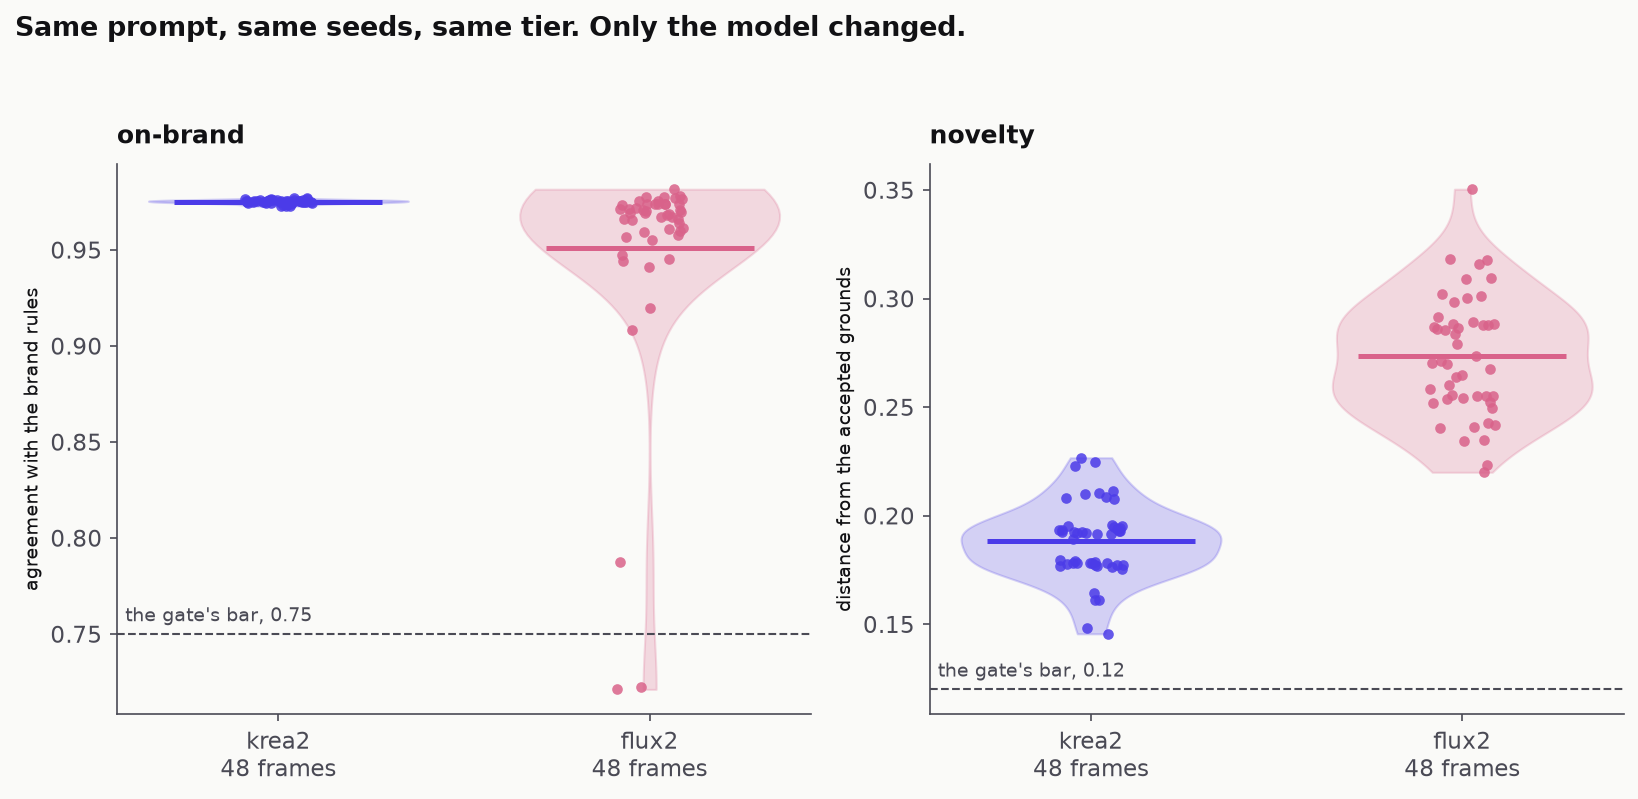
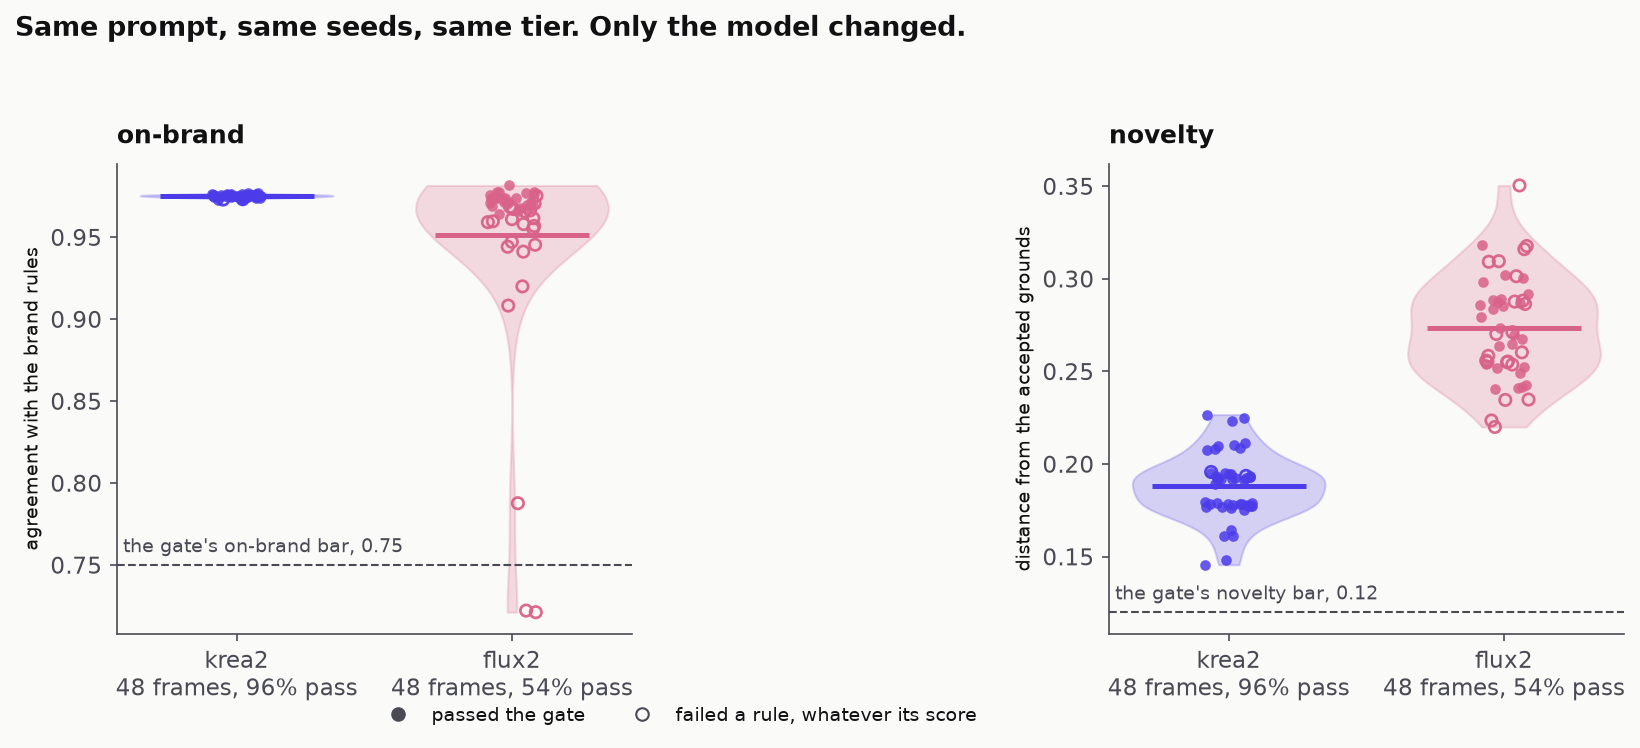
The drift plot and scorecard in the README, and a figure that stops disagreeing with them
The first render of plot.png showed only the score and the bar, so flux2's
cloud sat high and read as an arm that passes nearly everything. It is not: a
frame fails when ANY rule fails, and 21 of flux2's 48 refusals scored 0.94 to
0.97, well above the 0.75 bar. The panel now draws a refusal as a hollow ring,
puts the pass rate in the axis label and says in a legend that a frame can
clear the bar and still be refused. Same data, opposite impression.

That is the README's paragraph too: the mean fell 0.024 and the spread grew 56
times, so the number a dashboard would report stayed healthy while half the
output stopped shipping.

Closes the last acceptance line on #9.

diff --git a/runs/drift.py b/runs/drift.py
@@ -226,6 +226,11 @@ def _n(v, fmt="{:.4f}", dash="n/a"):
     return dash if v is None else fmt.format(v)
 
 
+def _pass_rate(rows: list[dict], model: str) -> float:
+    mine = [r for r in rows if r["model"] == model]
+    return sum(1 for r in mine if r["verdict"] == "pass") / len(mine) if mine else 0.0
+
+
 def shared_seeds(rows: list[dict]) -> bool:
     """Did every arm draw the same seeds? The run's one real precondition."""
     by = collections.defaultdict(set)
@@ -367,23 +372,34 @@ def figure(rows: list[dict], cfg: dict, out_path: str | None = None,
                 body.set_facecolor(col)
                 body.set_edgecolor(col)
                 body.set_alpha(0.22)
-        for i, (d, col) in enumerate(zip(data, colours)):
-            ax.scatter(i + rng.uniform(-0.09, 0.09, len(d)), d, s=26, color=col,
+        # Filled for a frame that passed, hollow for one that failed. Without
+        # this the panel quietly disagrees with the scorecard: a frame fails
+        # when ANY rule fails, so 21 of flux2's 48 failures sit at 0.94 to
+        # 0.97, well above the bar. A reader seeing only the cloud and the
+        # dashed line would conclude that arm passed nearly everything.
+        for i, (m, col) in enumerate(zip(models, colours)):
+            mine = [r for r in rows if r["model"] == m and r[key] is not None]
+            ok = [r[key] for r in mine if r["verdict"] == "pass"]
+            bad = [r[key] for r in mine if r["verdict"] != "pass"]
+            ax.scatter(i + rng.uniform(-0.09, 0.09, len(ok)), ok, s=26, color=col,
                        alpha=0.85, linewidths=0, zorder=3)
-            if d:
-                ax.hlines(statistics.mean(d), i - 0.28, i + 0.28, color=col, lw=2.4,
-                          zorder=4)
+            ax.scatter(i + rng.uniform(-0.09, 0.09, len(bad)), bad, s=30,
+                       facecolors="none", edgecolors=col, linewidths=1.3,
+                       alpha=0.95, zorder=3)
+            if data[i]:
+                ax.hlines(statistics.mean(data[i]), i - 0.28, i + 0.28, color=col,
+                          lw=2.4, zorder=4)
         ax.axhline(bar, color=c["graphite"], lw=1, ls="--")
         # Anchored in axes fraction, not in data: at the right-hand end the
         # label lands past the last violin and matplotlib clips it away
         # without a word, which leaves a bare dashed line meaning nothing.
-        ax.annotate(f"the gate's bar, {bar}", xy=(0.012, bar),
+        ax.annotate(f"the gate's {title} bar, {bar}", xy=(0.012, bar),
                     xycoords=("axes fraction", "data"), xytext=(0, 4),
                     textcoords="offset points", ha="left", va="bottom",
                     fontsize=9, color=c["graphite"])
         ax.set_xticks(range(len(models)))
-        ax.set_xticklabels([f"{m}\n{sum(1 for r in rows if r['model'] == m)} frames"
-                            for m in models])
+        ax.set_xticklabels([f"{m}\n{sum(1 for r in rows if r['model'] == m)} frames, "
+                            f"{_pass_rate(rows, m):.0%} pass" for m in models])
         ax.set_title(title, loc="left", fontsize=12, fontweight="bold", pad=10)
         ax.set_ylabel(ylabel, fontsize=9)
         ax.spines["top"].set_visible(False)
@@ -397,7 +413,19 @@ def figure(rows: list[dict], cfg: dict, out_path: str | None = None,
                  "Same prompt and tier, DIFFERENT seeds per arm: not a controlled "
                  "comparison.",
                  x=0.01, ha="left", fontsize=13, fontweight="bold")
-    fig.tight_layout(rect=(0, 0, 1, 0.94))
+    # Said once, under both panels, because "hollow" means nothing unless the
+    # figure explains that a frame can clear the bar and still be refused.
+    from matplotlib.lines import Line2D
+    ink = c["graphite"]
+    axes[0].legend(
+        handles=[Line2D([], [], marker="o", ls="", markerfacecolor=ink,
+                        markeredgecolor=ink, markersize=6, label="passed the gate"),
+                 Line2D([], [], marker="o", ls="", markerfacecolor="none",
+                        markeredgecolor=ink, markersize=6,
+                        label="failed a rule, whatever its score")],
+        loc="upper center", bbox_to_anchor=(1.09, -0.12), ncol=2, frameon=False,
+        fontsize=9, labelcolor=c["ink"])
+    fig.tight_layout(rect=(0, 0.04, 1, 0.94))
     if caption:
         fig.text(0.01, -0.02, caption, ha="left", va="top", fontsize=9,
                  color=c["graphite"], wrap=True)

diff --git a/pipeline/tests/test_drift.py b/pipeline/tests/test_drift.py
@@ -150,3 +150,16 @@ def test_novelty_is_measured_against_the_accepted_grounds_not_the_arms_own_frame
     found = drift.reference_paths()
     assert found, "the repo ships no accepted grounds to measure novelty against"
     assert all("accepted" in p for p in found)
+
+
+def test_the_figures_pass_rate_counts_verdicts_not_scores():
+    # The panel's x label and its hollow markers both come from the verdict,
+    # because a frame fails when ANY rule fails: 21 of flux2's 48 failures
+    # scored 0.94 to 0.97, well above the 0.75 bar. A figure that keyed on the
+    # score would have drawn that arm as passing nearly everything, and would
+    # have disagreed with the scorecard printed beside it.
+    rows = (_rows("krea2", [4000, 4001]) +
+            _rows("flux2", [4000, 4001], on_brand=0.96, verdict="fail",
+                  failed=["gradient.03"]))
+    assert drift._pass_rate(rows, "krea2") == 1.0
+    assert drift._pass_rate(rows, "flux2") == 0.0

diff --git a/README.md b/README.md
@@ -18,6 +18,16 @@ The brand is Handsel, a one-person software studio that keeps its tools in publi
 
 The recipe is the same on every row: ground, paper veil, grain where the rules allow it, the mark, the wordmark in the text gradient, a headline in ink. What changes between a hero and a story card is one row of numbers in a table. Where the numbers came from is worth saying. The square's crop was scored at six positions across the ground and passes at two of them; no 9:16 crop of a 16:9 ground passes at all, so the story carries its ground as a band. The gate chose those, not an eye, and the comment above the table says which verdicts it was.
 
+## The drift run
+
+![Ninety-six grounds, forty-eight per model, the same seeds in both arms](runs/drift/plot.png)
+
+Swap the model and hold everything else: same prompt at the same version, same forty-eight seeds, same tier, same size. krea2 passes 96 percent of them at a mean of 0.9751 and a standard deviation of 0.0010, which is a flat line. flux2 passes 54 percent at a mean of 0.9511, and that two-hundredth of a point of mean hides a spread fifty-six times wider: the brand did not get worse on average, it got unreliable, and a team watching the mean would have shipped the swap. One rule did nearly all of it, `gradient.03`, twenty-one frames against krea2's two, and its sentence says what a designer would have said looking at the pile: the orbs separate, steepest edges 15.2 where a bleed stays under 14.
+
+The hollow rings are the point of the left panel. A frame fails when any single rule fails, whatever its score, so most of flux2's refusals sit at 0.94 to 0.97, well clear of the bar. A dashboard reporting the average would have shown a healthy number all the way down. The per-model numbers, the rule counts and the latencies are in [`runs/drift/scorecard.md`](runs/drift/scorecard.md), every figure read from the run's own output or the ledger rather than typed, and the ninety-six rows behind them are in [`runs/ledger.jsonl`](runs/ledger.jsonl) with their seeds, so the run regenerates without the pixels being tracked.
+
+The same gate runs in CI. [`gate.yml`](.github/workflows/gate.yml) scores every surface this repo ships on every push and fails the job when one stops passing, which is the half of "does not silently drift" that a plot cannot do.
+
 ## The sameness run
 
 ![Tightening the gate on a fixed pool of 200 grounds](runs/sameness/plot.png)
